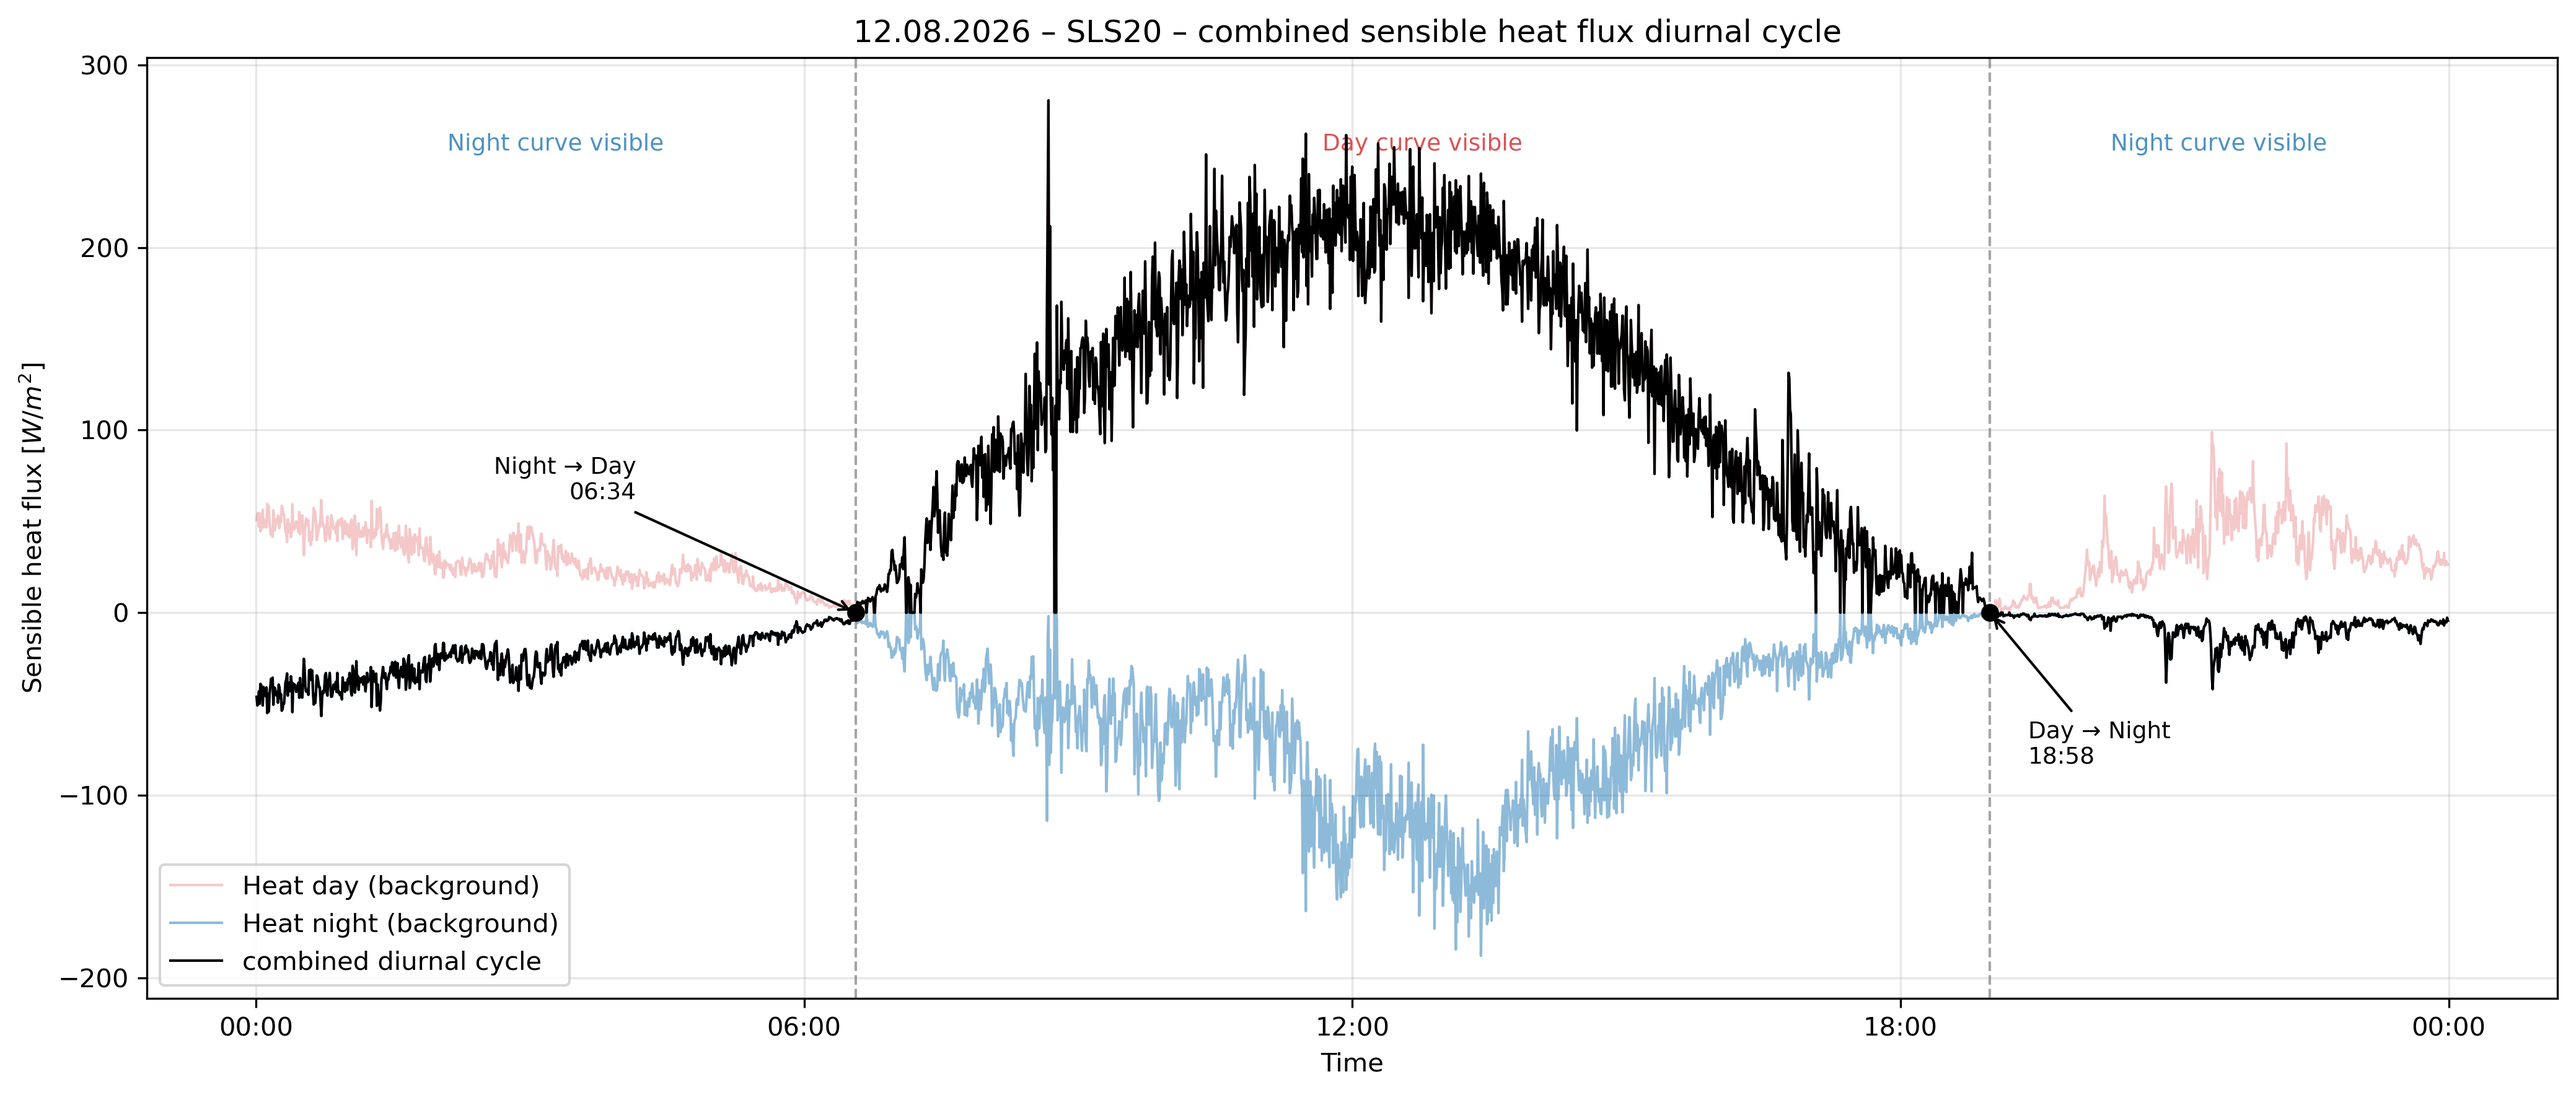
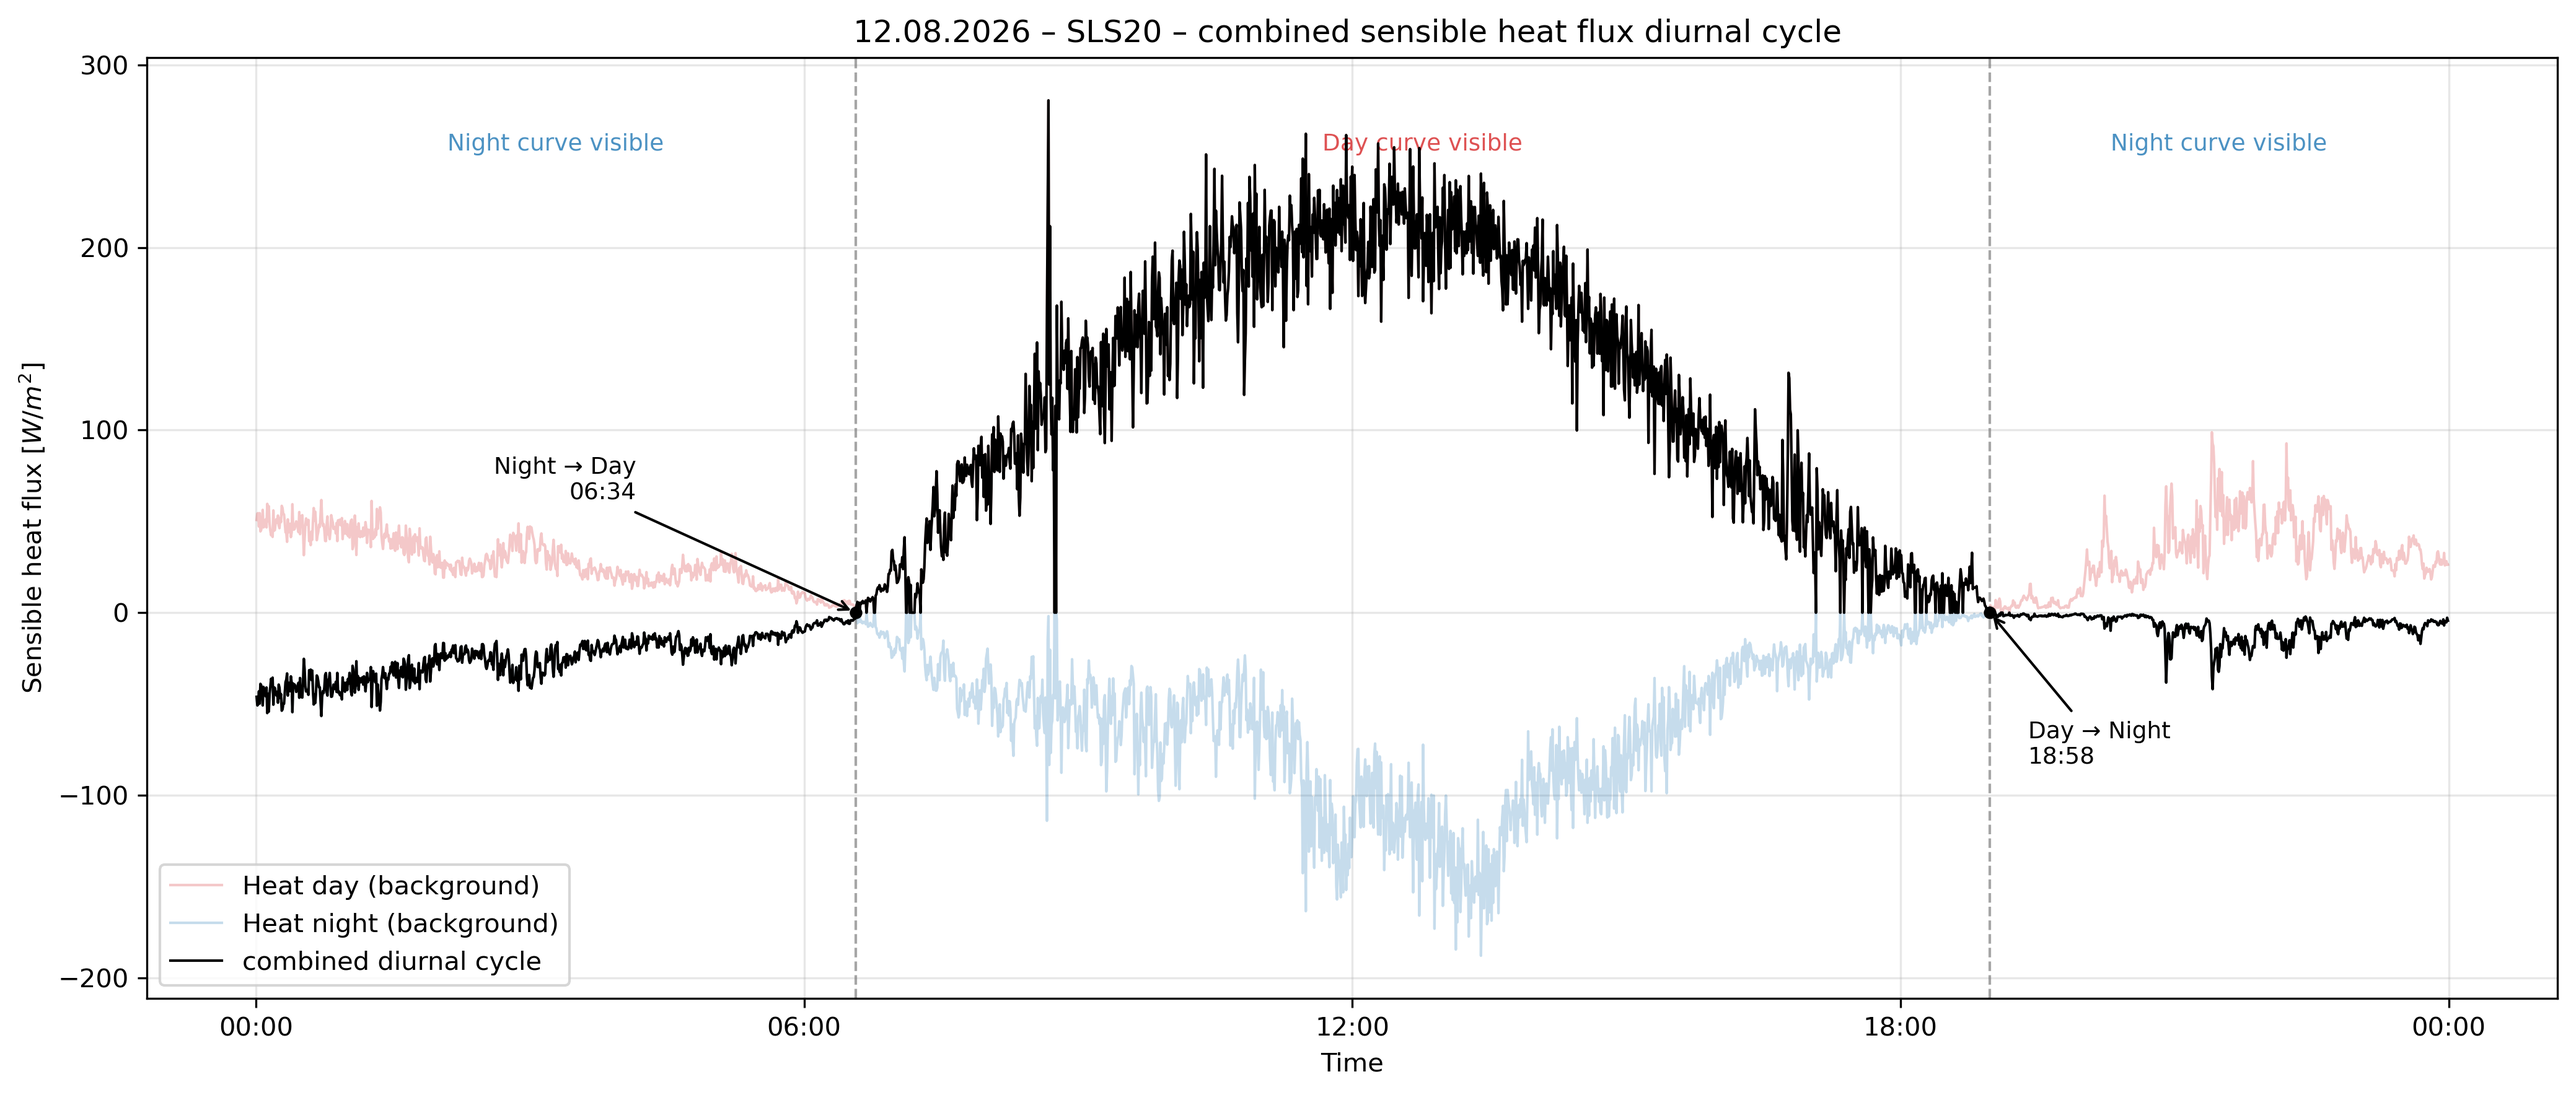
improving the plots

Changed region(s): [[0.3414, 0.56, 0.7137, 0.871], [0.7137, 0.56, 0.7758, 0.5911]]

diff --git a/scintillometer/data_processing/analysis_sls.py b/scintillometer/data_processing/analysis_sls.py
@@ -826,7 +826,7 @@ def plot_combined_daily_cycle(
             label="Heat night (background)",
             color="tab:blue",
             linewidth=1.0,
-            alpha=0.5,
+            alpha=0.25,
         )
 
         # FOREGROUND: COMBINED CURVE
@@ -881,7 +881,7 @@ def plot_combined_daily_cycle(
             morning_transition,
             morning_value,
             color="black",
-            s=35,
+            s=15,
             zorder=10,
         )
 
@@ -950,7 +950,7 @@ def plot_combined_daily_cycle(
             evening_transition,
             evening_value,
             color="black",
-            s=35,
+            s=15,
             zorder=10,
         )
 
